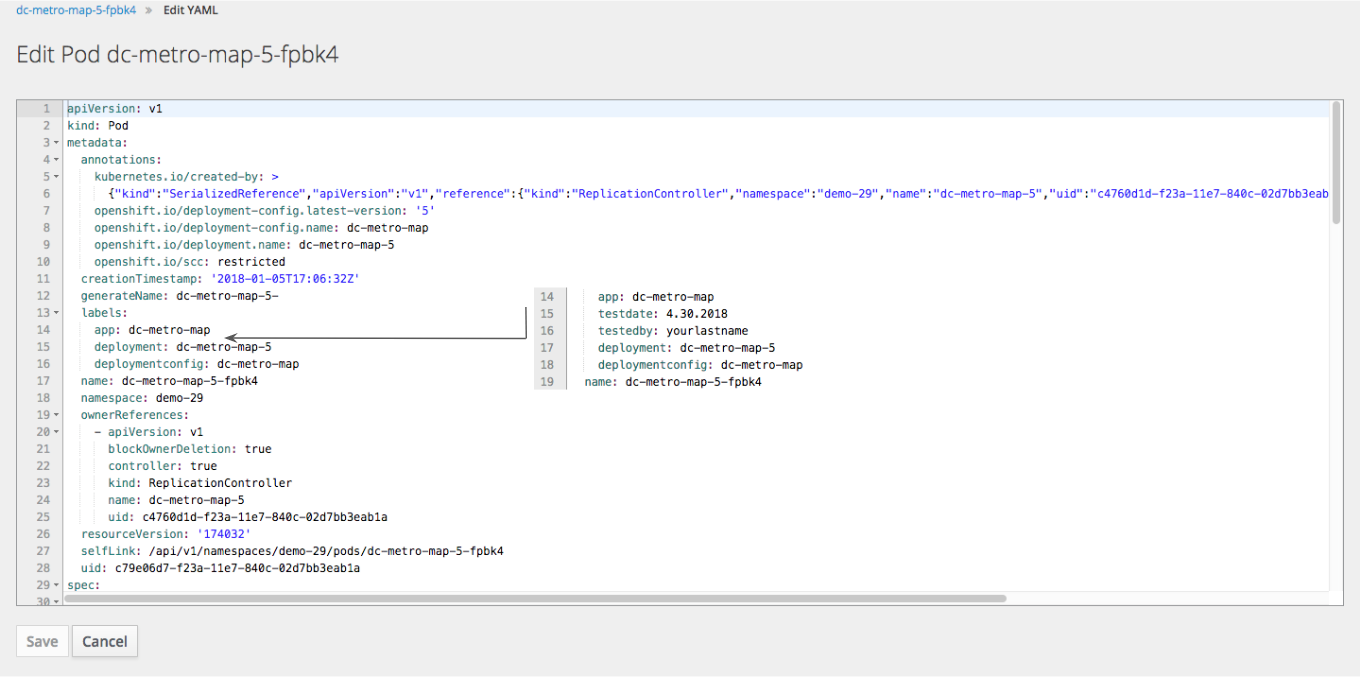
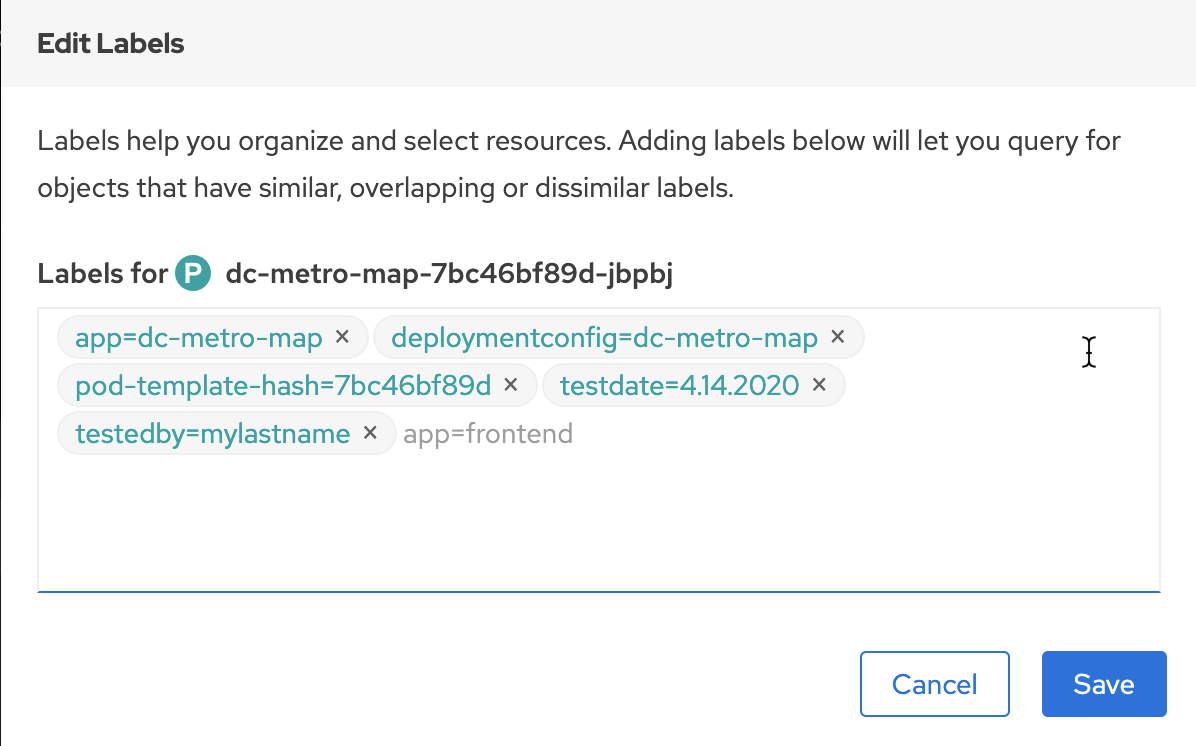
updated lab 7

diff --git a/content/workshops/openshift_4_101/lab7-labels.md b/content/workshops/openshift_4_101/lab7-labels.md
@@ -22,7 +22,16 @@ In a previous lab we added our web app using a S2I template.  When we did that, 
 
 ```bash
 $ oc get pods
-$ oc describe pod/<POD NAME> | more
+$ oc describe pod/<POD NAME> | grep Labels: --context=4
+Namespace:    demo-1
+Priority:     0
+Node:         ip-10-0-132-38.us-east-2.compute.internal/10.0.132.38
+Start Time:   Tue, 14 Apr 2020 17:41:58 +0000
+Labels:       app=dc-metro-map
+              deploymentconfig=dc-metro-map
+              pod-template-hash=7bc46bf89d
+Annotations:  k8s.v1.cni.cncf.io/networks-status:
+                [{
 ```
 
 You can see the Labels automatically added contain the app, deployment, and deploymentconfig.  Let's add a new label to this pod.
@@ -32,7 +41,7 @@ You can see the Labels automatically added contain the app, deployment, and depl
 </blockquote>
 
 ```bash
-$ oc label pod/<POD NAME> testdate=4.30.2018 testedby=mylastname
+$ oc label pod/<POD NAME> testdate=4.14.2020 testedby=mylastname
 ```
 
 <blockquote>
@@ -40,7 +49,16 @@ $ oc label pod/<POD NAME> testdate=4.30.2018 testedby=mylastname
 </blockquote>
 
 ```bash
-$ oc describe pod/<POD NAME> | more
+$ oc describe pod/<POD NAME> | grep Labels: --context=4
+Namespace:    demo-1
+Priority:     0
+Node:         ip-10-0-132-38.us-east-2.compute.internal/10.0.132.38
+Start Time:   Tue, 14 Apr 2020 17:41:58 +0000
+Labels:       app=dc-metro-map
+              deploymentconfig=dc-metro-map
+              pod-template-hash=7bc46bf89d
+              testdate=4.14.2020
+              testedby=mylastname
 ```
 
 <blockquote>
@@ -68,35 +86,20 @@ Next let's look at the log for the pod running our application.
 <blockquote>
 Click the pod for the dc metro map webapp (it shoud have a status of Running)
 </blockquote>
-<img src="../images/ocp-lab-labels-poddetails.png" width="900"></br>
+<img src="../images/ocp-lab-labels-poddetails.png" width="500"></br>
 Here, at the top, you can see the labels on this pod
 
 <blockquote>
-Click the "Actions" button, then click "Edit YAML" for the pod
+Click the "Actions" button, then click "Edit Labels" for the pod
 </blockquote>
-<img src="../images/ocp-lab-labels-podedit.png" width="900"><br/>
-You will see all the labels under the metadata->labels section.
+<img src="../images/ocp-lab-labels-podedit.png" width="500"><br/>
+
+Your updated label will show up in the running pods.
 
 <blockquote>
-Add a new label into the labels section
-
-testdate: 4.30.2018
-testedby: mylastname
+Select Workloads -> Pods -> dc-metro-map (Running POD), then scroll down to "Labels"
 </blockquote>
-
-<img src="../images/ocp-lab-labels-podedit2.png" width="300"><br/>
-
-Your updated label will show up in the running pod's.
-
-Select Application -> Pods -> dc-metro-map (Running POD)
-
-<blockquote>
-If you see "More labels..", then click that link
-<img src="../images/ocp-lab-labels-podedit3.png" width="500"><br/>
-</blockquote>
-
-Labels will appear in the list:</br>
-<img src="../images/ocp-lab-labels-podedit4.png" width="600"><br/>
+<img src="../images/ocp-lab-labels-podedit3.png" width="900"><br/>
 
 {{% /panel %}}
 {{< /panel_group >}}
